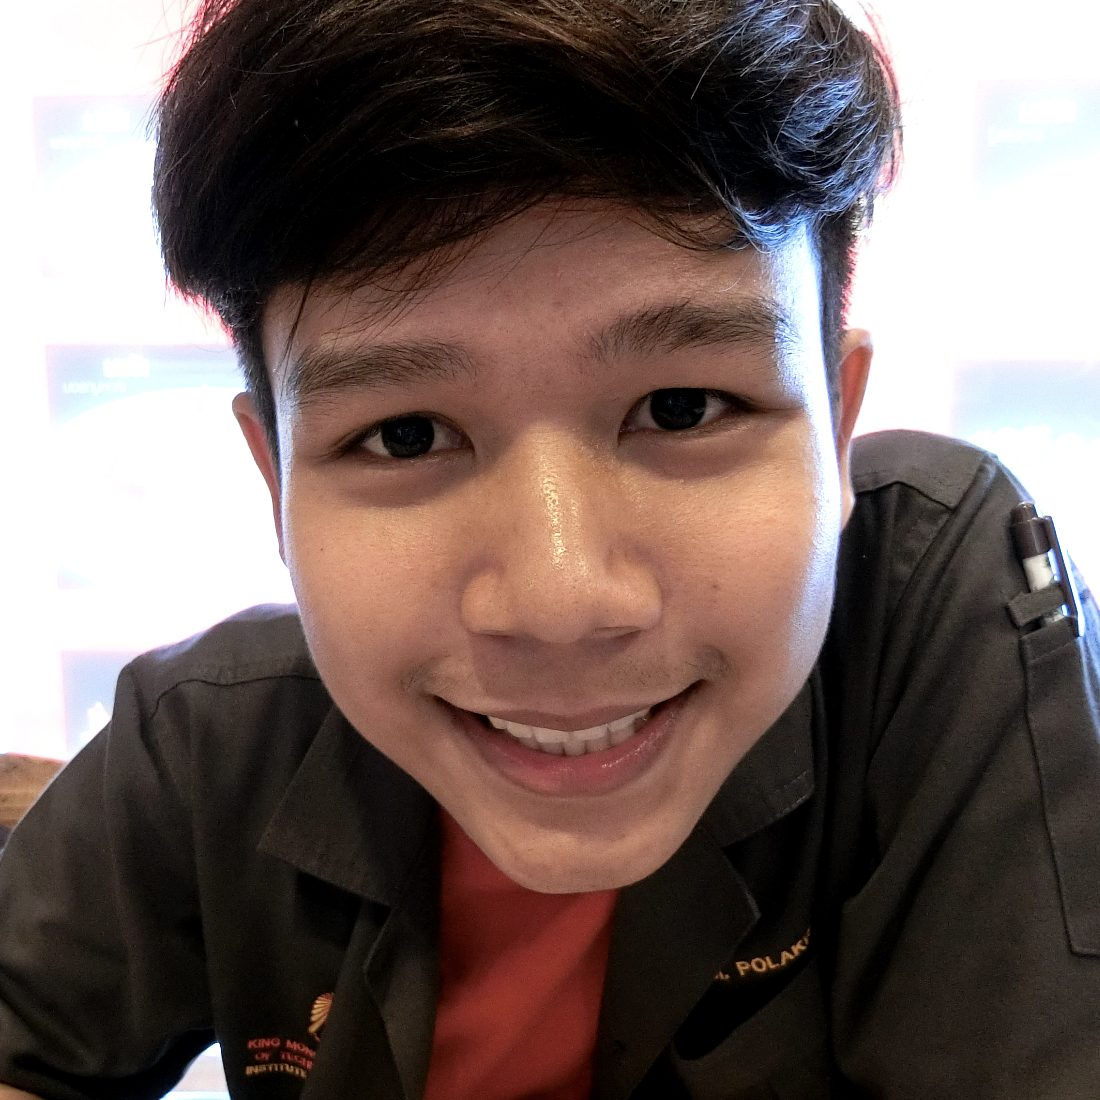
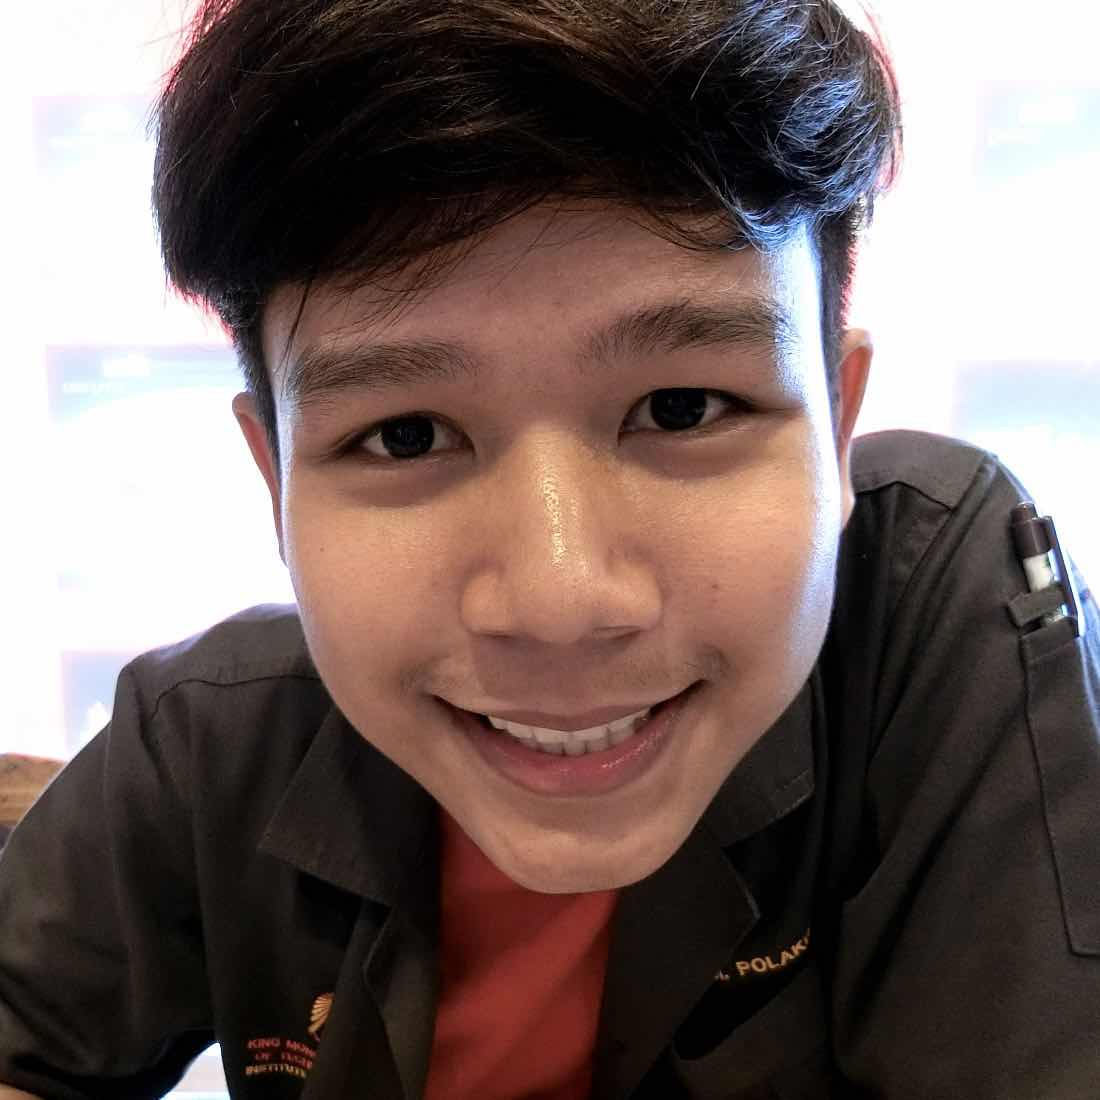
🌅 update warning and resize image

diff --git a/src/components/clients/AddClient.js b/src/components/clients/AddClient.js
@@ -11,8 +11,8 @@ class AddClient extends Component {
     Time: "",
     Performance: "",
     Availability: "",
-    Quality: "",
-    OEE: ""
+    Quality: ""
+    // OEE: ""
   };
 
   onSubmit = e => {
@@ -32,16 +32,16 @@ class AddClient extends Component {
     if (newClient.Quality === "") {
       newClient.Quality = 0;
     }
-    if (newClient.OEE === "") {
-      newClient.OEE = parseFloat(
-        (((((parseFloat(newClient.Performance.toString()) / 100) *
-          parseFloat(newClient.Availability.toString())) /
-          100) *
-          parseFloat(newClient.Quality.toString())) /
-          100) *
-          100
-      ).toFixed(2);
-    }
+    // if (newClient.OEE === "") {
+    //   newClient.OEE = parseFloat(
+    //     (((((parseFloat(newClient.Performance.toString()) / 100) *
+    //       parseFloat(newClient.Availability.toString())) /
+    //       100) *
+    //       parseFloat(newClient.Quality.toString())) /
+    //       100) *
+    //       100
+    //   ).toFixed(2);
+    // }
     if (newClient.Time === "") {
       newClient.Time =
         new Date().toLocaleTimeString() + " " + new Date().toLocaleDateString();

diff --git a/src/components/pages/About.js b/src/components/pages/About.js
@@ -10,31 +10,31 @@ import profilePee from "../img/profilePee.jpg";
 import profileMap from "../img/profileMap.jpg";
 import profileTA from "../img/profileTA.jpg";
 
-import styled from "styled-components";
+// import styled from "styled-components";
 
-const Fontres = styled.h1`
-  html {
-    font-size: 3rem;
-  }
+// const Fontres = styled.h1`
+//   html {
+//     font-size: 3rem;
+//   }
 
-  @include media-breakpoint-up(sm) {
-    html {
-      font-size: 1.2rem;
-    }
-  }
+//   @include media-breakpoint-up(sm) {
+//     html {
+//       font-size: 1.2rem;
+//     }
+//   }
 
-  @include media-breakpoint-up(md) {
-    html {
-      font-size: 1.4rem;
-    }
-  }
+//   @include media-breakpoint-up(md) {
+//     html {
+//       font-size: 1.4rem;
+//     }
+//   }
 
-  @include media-breakpoint-up(lg) {
-    html {
-      font-size: 3rem;
-    }
-  }
-`;
+//   @include media-breakpoint-up(lg) {
+//     html {
+//       font-size: 3rem;
+//     }
+//   }
+// `;
 
 export default function Landing() {
   return (

diff --git a/src/components/clients/DashChart.js b/src/components/clients/DashChart.js
@@ -1,8 +1,8 @@
 import React, { Component } from "react";
 import Chart from "react-apexcharts";
-import PropTypes from "prop-types";
-import { connect } from "react-redux";
-import { firestoreConnect } from "react-redux-firebase";
+// import PropTypes from "prop-types";
+// import { connect } from "react-redux";
+// import { firestoreConnect } from "react-redux-firebase";
 
 class DashChart extends Component {
   constructor(props) {
@@ -57,7 +57,7 @@ class DashChart extends Component {
   }
 
   render() {
-    const { clients } = this.props;
+    // const { clients } = this.props;
 
     return (
       <React.Fragment>
@@ -76,9 +76,9 @@ class DashChart extends Component {
   }
 }
 
-DashChart.propTypes = {
-  firestore: PropTypes.object.isRequired,
-  clients: PropTypes.array
-};
+// DashChart.propTypes = {
+//   firestore: PropTypes.object.isRequired,
+//   clients: PropTypes.array
+// };
 
 export default DashChart;

diff --git a/src/components/clients/Clients.js b/src/components/clients/Clients.js
@@ -31,19 +31,19 @@ class Clients extends Component {
   //   totalMc: null
   // };
 
-  static getDerivedStateFromProps(props, state) {
-    const { clients } = props;
+  // static getDerivedStateFromProps(props, state) {
+  //   const { clients } = props;
 
-    // if (clients) {
-    //   const total = clients.reduce((total, client) => {
-    //     return total + parseFloat(client.OEE.toString()); // ERROR !!!!
-    //   }, 0);
+  //   // if (clients) {
+  //   //   const total = clients.reduce((total, client) => {
+  //   //     return total + parseFloat(client.OEE.toString()); // ERROR !!!!
+  //   //   }, 0);
 
-    //   return { totalMc: total };
-    // }
+  //   //   return { totalMc: total };
+  //   // }
 
-    return null;
-  }
+  //   return null;
+  // }
 
   render() {
     const { clients } = this.props;

diff --git a/src/components/layout/Dashboard.js b/src/components/layout/Dashboard.js
@@ -1,11 +1,11 @@
 import React from "react";
-import PopChart from "../clients/PopChart";
+// import PopChart from "../clients/PopChart";
 import PopChart2 from "../clients/PopChart2";
 import PopChart4 from "../clients/PopChart4";
 import PopChart5 from "../clients/PopChart5";
-import PopChart6 from "../clients/PopChart6";
-import PopChart3 from "../clients/PopChart3";
-import DashChart from "../clients/DashChart";
+// import PopChart6 from "../clients/PopChart6";
+// import PopChart3 from "../clients/PopChart3";
+// import DashChart from "../clients/DashChart";
 import DashChart2 from "../clients/DashChart2";
 
 export default function Dashboard() {

diff --git a/src/components/clients/DashChart2.js b/src/components/clients/DashChart2.js
@@ -1,8 +1,8 @@
 import React, { Component } from "react";
 import Chart from "react-apexcharts";
 import PropTypes from "prop-types";
-import { connect } from "react-redux";
-import { firestoreConnect } from "react-redux-firebase";
+// import { connect } from "react-redux";
+// import { firestoreConnect } from "react-redux-firebase";
 
 class DashChart extends Component {
   constructor(props) {
@@ -79,7 +79,7 @@ class DashChart extends Component {
   }
 
   render() {
-    const { clients } = this.props;
+    // const { clients } = this.props;
 
     return (
       <React.Fragment>

diff --git a/src/components/clients/PopChart3.js b/src/components/clients/PopChart3.js
@@ -1,8 +1,8 @@
-import { compose } from "redux";
-import { connect } from "react-redux";
-import { firestoreConnect } from "react-redux-firebase";
-import { Link } from "react-router-dom";
-import PropTypes from "prop-types";
+// import { compose } from "redux";
+// import { connect } from "react-redux";
+// import { firestoreConnect } from "react-redux-firebase";
+// import { Link } from "react-router-dom";
+// import PropTypes from "prop-types";
 import Chart from "react-apexcharts";
 import React, { Component } from "react";
 

diff --git a/src/components/layout/AppNavbar.js b/src/components/layout/AppNavbar.js
@@ -6,12 +6,12 @@ import { connect } from "react-redux";
 import { firebaseConnect } from "react-redux-firebase";
 import PropTypes from "prop-types";
 import Sflogo from "../layout/sflogo.png";
-import styled from "styled-components";
+// import styled from "styled-components";
 
-const Wrapper = styled.section`
-  padding: 4em;
-  background: #007bff;
-`;
+// const Wrapper = styled.section`
+//   padding: 4em;
+//   background: #007bff;
+// `;
 class AppNavbar extends Component {
   state = {
     isAuthenticated: false

diff --git a/src/components/clients/PopChart.js b/src/components/clients/PopChart.js
@@ -1,5 +1,5 @@
 import React, { Component } from "react";
-import { Link } from "react-router-dom";
+// import { Link } from "react-router-dom";
 import PropTypes from "prop-types";
 import { compose } from "redux";
 import { connect } from "react-redux";
@@ -30,7 +30,7 @@ class PopChart extends Component {
   // };
 
   static getDerivedStateFromProps(props, state) {
-    const { clients } = props;
+    // const { clients } = props;
 
     // if (clients) {
     //   const total = clients.reduce((total, client) => {

diff --git a/src/components/pages/Landing.js b/src/components/pages/Landing.js
@@ -13,7 +13,7 @@ import profileTula from "../img/profileTula.jpg";
 import profilePee from "../img/profilePee.jpg";
 import profileMap from "../img/profileMap.jpg";
 import profileTA from "../img/profileTA.jpg";
-import logofirst from "../img/logofirst.png";
+import logofirst from "../img/logofirst.jpg";
 // Create a <Title> react component that renders an <h1> which is
 // centered, palevioletred and sized at 1.5em
 const Title1 = styled.h1`
